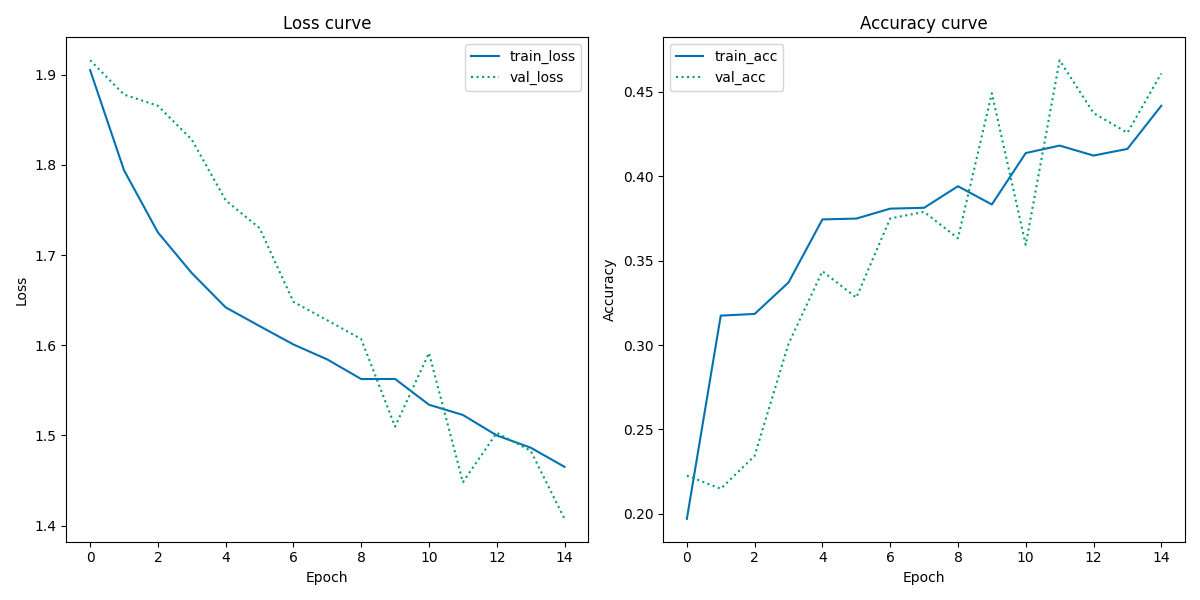
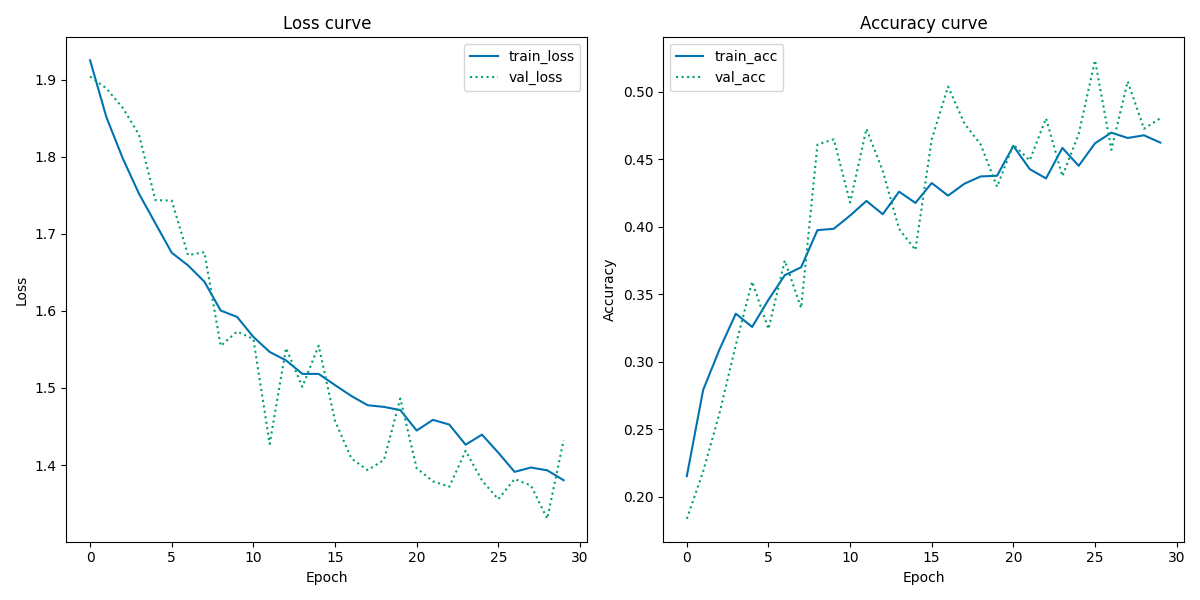
new model run

diff --git a/src_2/classifier.py b/src_2/classifier.py
@@ -67,7 +67,7 @@ batch_size = 32
 img_height = 224
 img_width = 224
 target_size = (224,224)
-n_epochs = 15
+n_epochs = 30
 directory= os.path.join(os.getcwd(),"data","archive","images")
 
 #################### Data generator ####################

diff --git a/README.md b/README.md
@@ -31,7 +31,7 @@ For this final project I have worked with a collection of dermatoscopic images w
 # **1.4 Data**
 For this final project I have used the *HAM10000 dataset* ("Human Against Machine with 10000 training images"). This dataset contains 10015 multi-source dermatoscopic images of common pigmented skin lesions, also known as skin cancer. This collection of images of skin cancer includes seven representative diagnostic categories within the domain of pigmented lessions. These seven categories are: Actinic keratoses and intraepithelial carcinoma / Bowen's disease (AKIEC), basal cell carcinoma (BCC), benign keratosis-like lesions (solar lentigines / seborrheic keratoses and lichen-planus like keratoses, BKL), dermatofibroma (df), melanoma (MEL), melanocytic nevi (NV) and vascular lesions (angiomas, angiokeratomas, pyogenic granulomas and hemorrhage, VASC) **KILDE**. Furthermore, the *HAM10000 dataset* consists of a *Ground Truth* .csv file matching each image filename to its diagnostic category.
 
-The data 
+The distribution of data within 
 
 
 <br>
